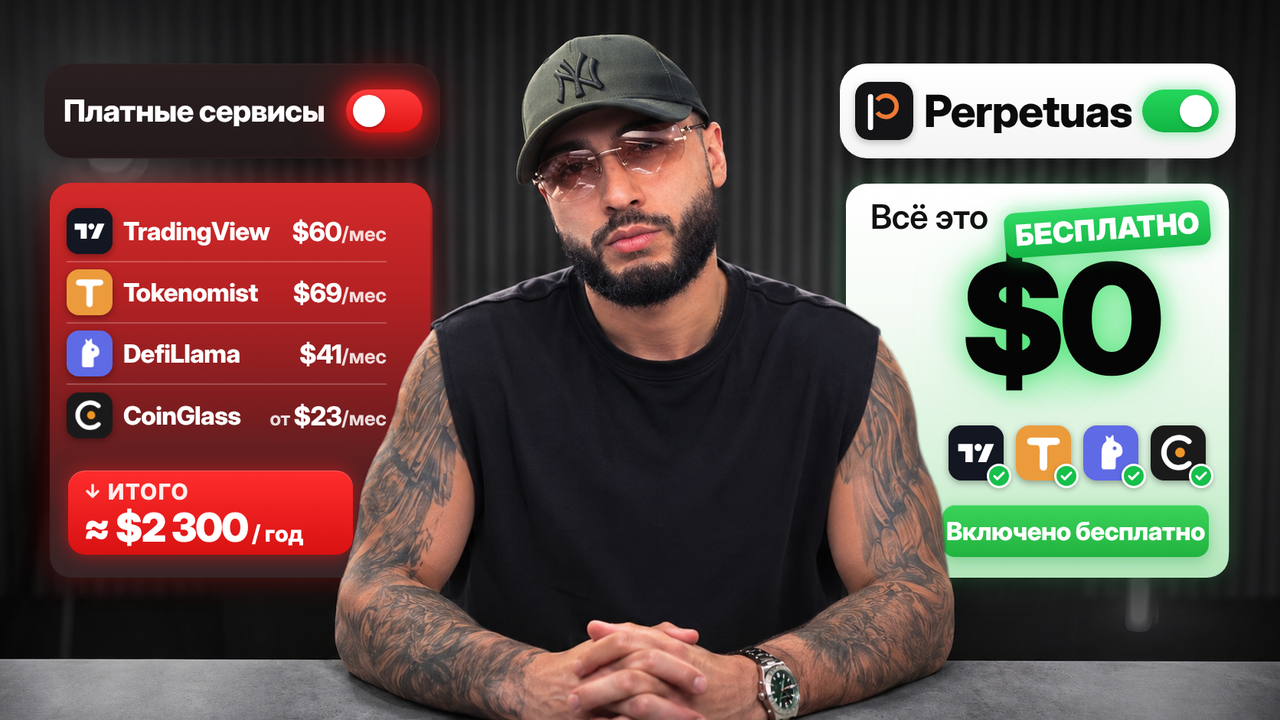
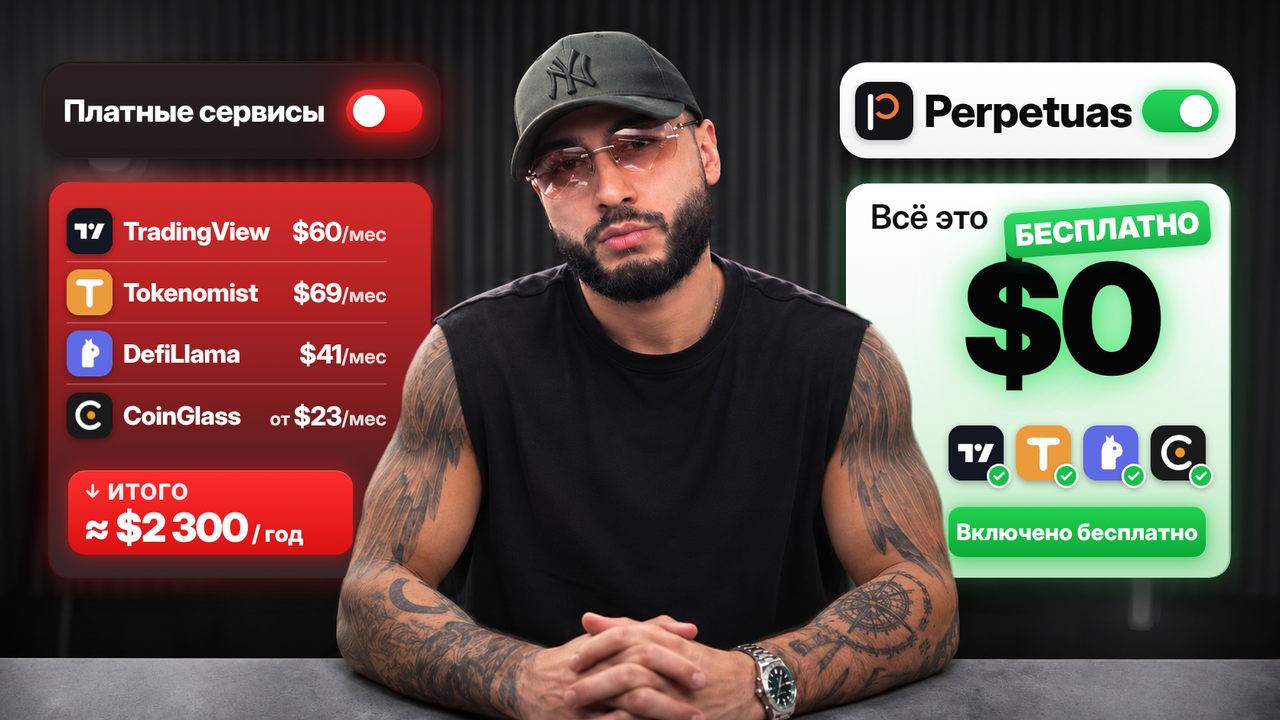
Thumbnail: clean text layer over new-tattoo version, aligned saturated CTA button
Claude-Session: https://claude.ai/code/session_01Ep7WauupJspbq7yH3p3BPA

diff --git a/youtube_thumbnail/src/cards.html b/youtube_thumbnail/src/cards.html
@@ -72,9 +72,9 @@ body{font-family:"ID",sans-serif;position:relative;-webkit-font-smoothing:antial
 .icons .ico img{border-radius:17px}
 .icons .ck{position:absolute;right:-10px;bottom:-10px;width:32px;height:32px;border-radius:50%;background:#16c04b;
   border:3px solid #fff;display:flex;align-items:center;justify-content:center;box-shadow:0 2px 6px rgba(0,0,0,.25)}
-.btn{position:absolute;right:26px;top:420px;width:348px;height:68px;border-radius:16px;
-  background:linear-gradient(180deg,#3bd35a,#21b33f);color:#fff;font-weight:800;font-size:33px;letter-spacing:-0.015em;white-space:nowrap;
-  display:flex;align-items:center;justify-content:center;gap:12px;box-shadow:0 6px 18px rgba(20,160,60,.35),inset 0 1px 0 rgba(255,255,255,.3)}
+.btn{position:absolute;right:30px;top:422px;width:336px;height:66px;border-radius:16px;
+  background:linear-gradient(180deg,#22d14f,#0aa834);color:#fff;font-weight:800;font-size:30px;letter-spacing:0;white-space:nowrap;
+  display:flex;align-items:center;justify-content:center;box-shadow:0 6px 20px rgba(10,170,50,.45),0 0 22px rgba(30,210,80,.35),inset 0 1px 0 rgba(255,255,255,.3)}
 </style></head>
 <body>
 

diff --git a/youtube_thumbnail/src/compose3.py b/youtube_thumbnail/src/compose3.py
@@ -1,0 +1,11 @@
+from PIL import Image, ImageFilter
+base=Image.open('v_tat.png').convert('RGBA')
+cards=Image.open('cards.png').convert('RGBA')
+person=Image.open('person_v_tat.png').convert('RGBA')
+a=person.getchannel('A').filter(ImageFilter.MinFilter(3)).filter(ImageFilter.GaussianBlur(0.7))
+person.putalpha(a)
+out=base.copy(); out.alpha_composite(cards); out.alpha_composite(person)
+out=out.convert('RGB'); out.save('thumbnail_v3.png')
+out.resize((1280,720),Image.LANCZOS).save('p3_1280.png')
+out.resize((320,180),Image.LANCZOS).save('p3_320.png')
+out.crop((1090,230,1625,770)).save('p3_right.png')
